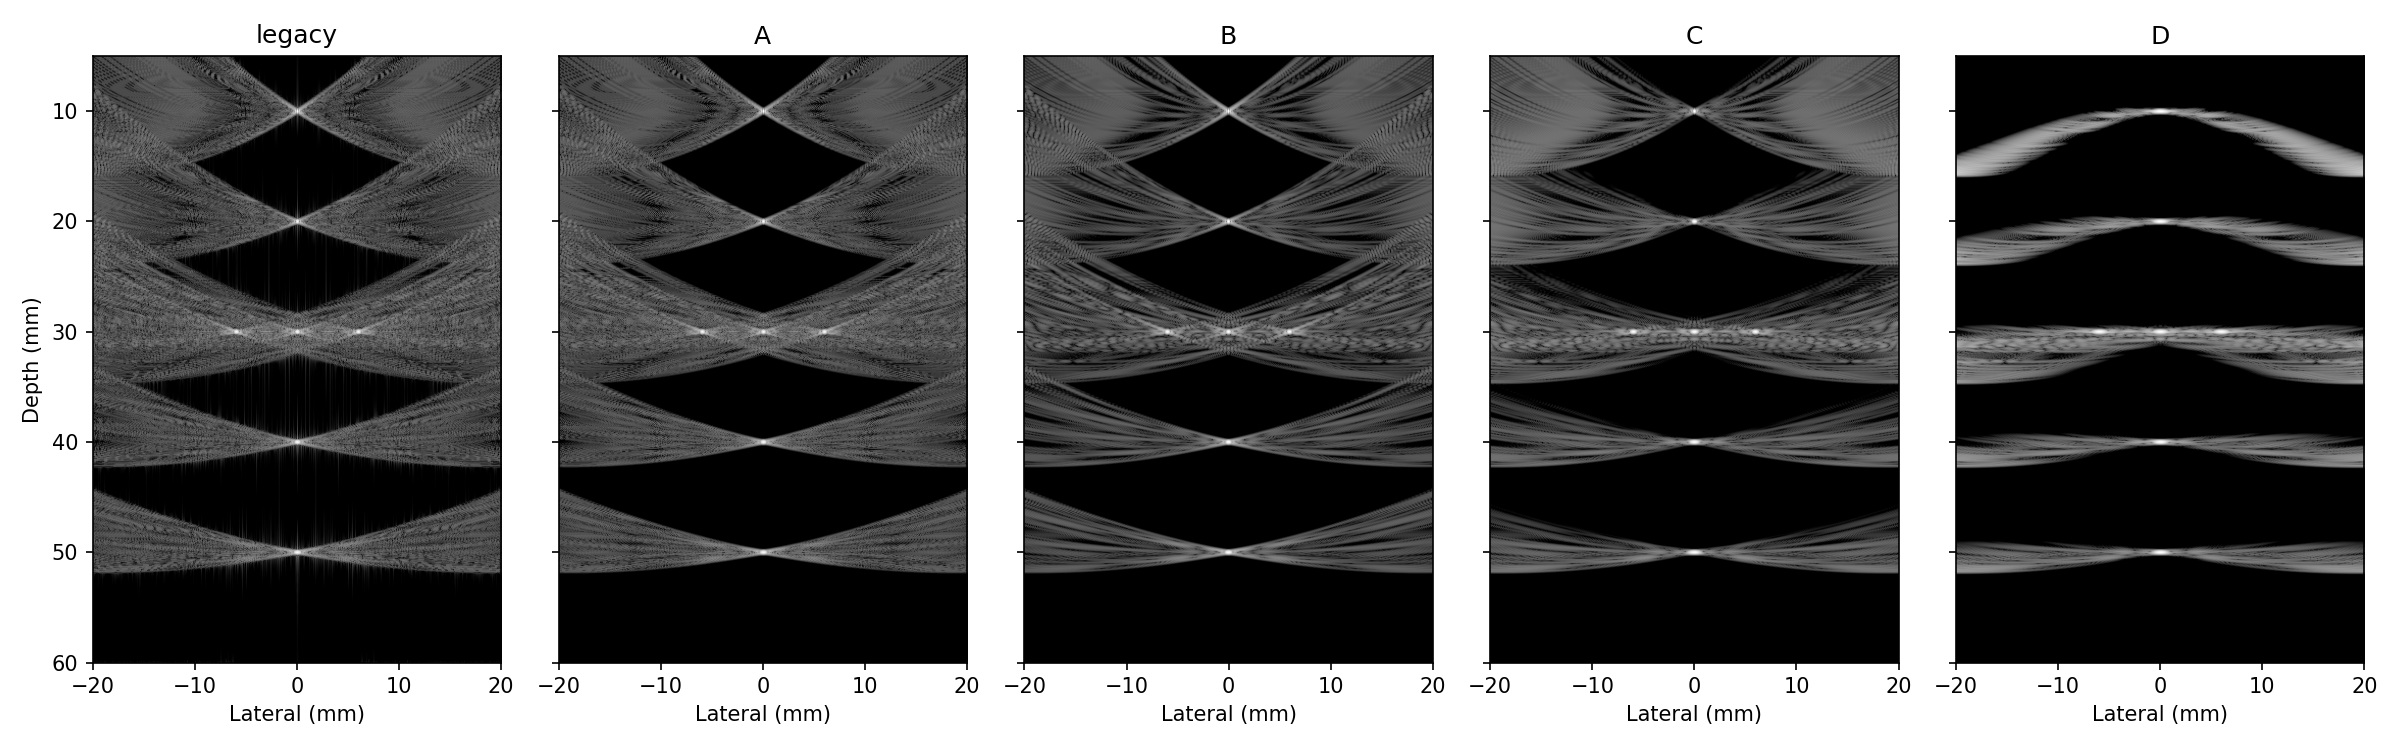
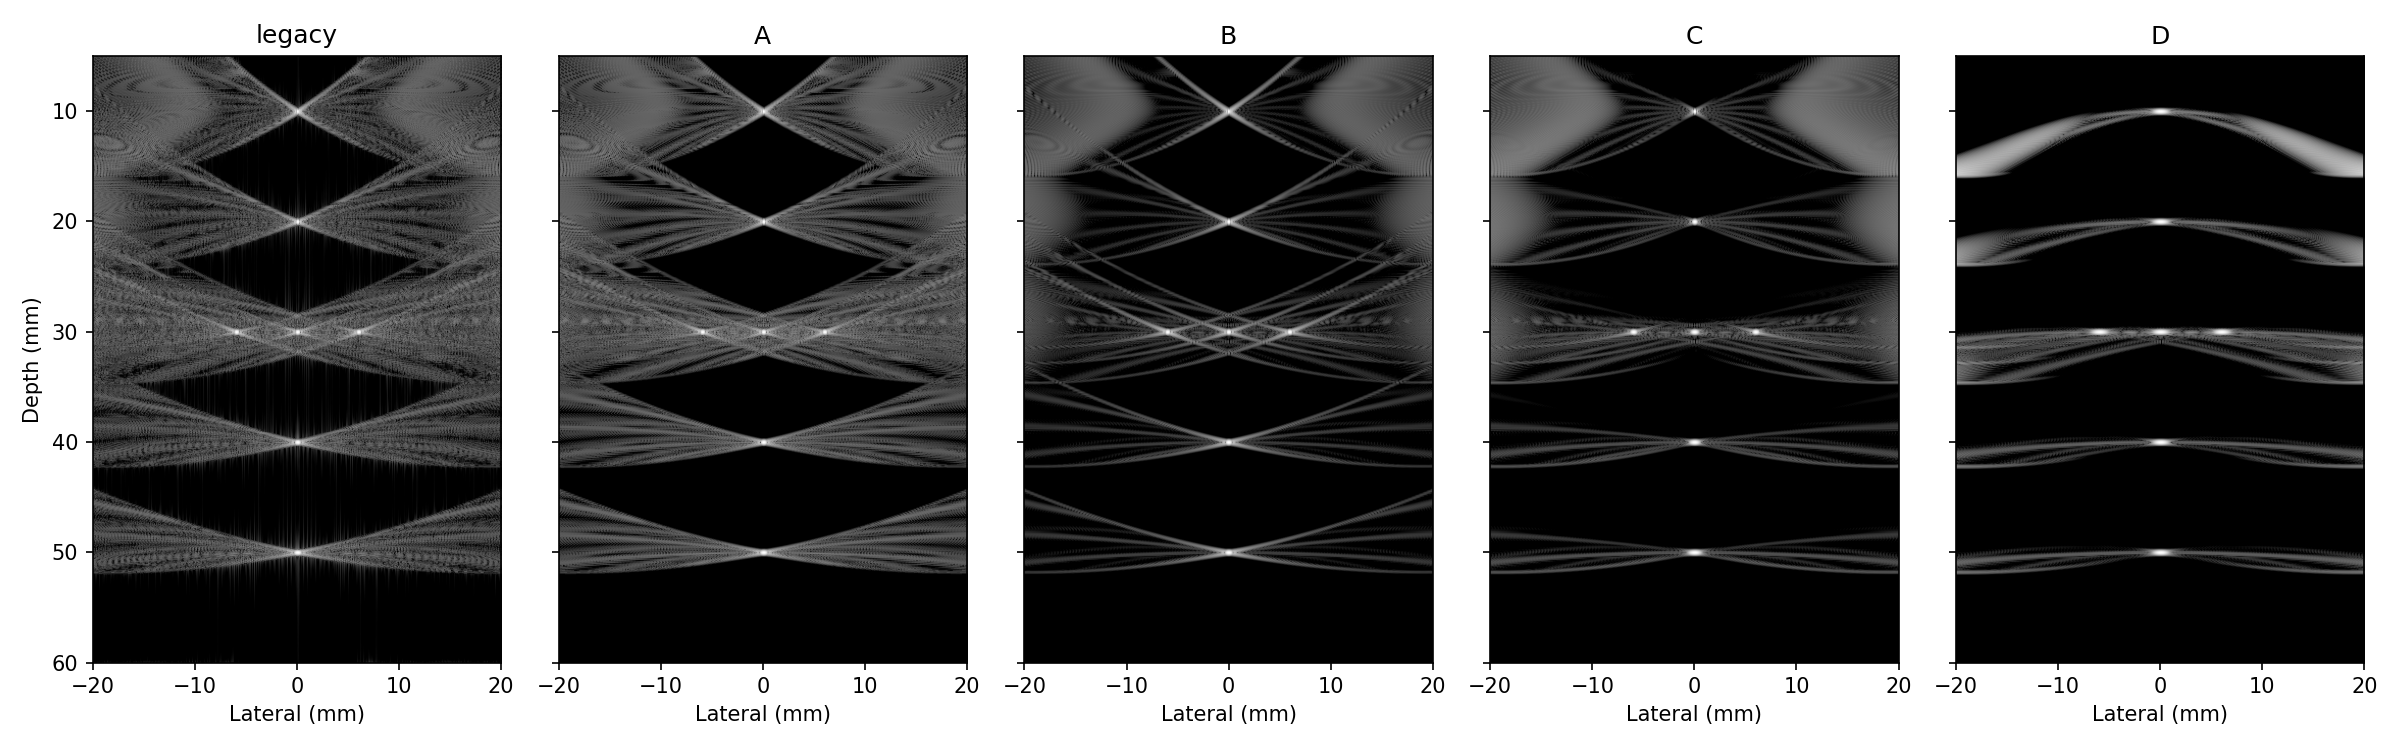
Add multi-seed ablation and robustness results

diff --git a/run_demo.py b/run_demo.py
@@ -14,8 +14,6 @@ from src.simulate import C, FS, PITCH, phantom_cyst, phantom_points, simulate_ch
 
 X = np.arange(-20e-3, 20.0001e-3, 0.1e-3)
 Z = np.arange(5e-3, 60.0001e-3, 0.05e-3)
-X_FINE = np.arange(-2e-3, 2.0001e-3, 0.025e-3)
-Z_FINE = np.arange(28e-3, 32.0001e-3, 0.025e-3)
 CONFIGS = {
     "legacy": None,
     "A": {"interp": "nearest", "apod": "none", "fnum": None, "upsample": 1},
@@ -33,6 +31,7 @@ def _plot_bmode(image, path, title):
     fig, ax = plt.subplots(figsize=(6, 7))
     shown = ax.imshow(to_db(image), cmap="gray", extent=[X[0] * 1e3, X[-1] * 1e3, Z[-1] * 1e3, Z[0] * 1e3], aspect="auto", vmin=-60, vmax=0)
     ax.set(xlabel="Lateral position (mm)", ylabel="Depth (mm)", title=title)
+    ax.set_xlim(-15, 15); ax.set_ylim(45, 15)
     fig.colorbar(shown, ax=ax, label="Amplitude (dB)")
     fig.tight_layout()
     fig.savefig(path, dpi=150)
@@ -40,8 +39,8 @@ def _plot_bmode(image, path, title):
 
 
 def _write_readme_table(rows):
-    table = ["| Config | Lateral FWHM (mm) | PSL (dB) | CR (dB) | CNR |", "|---|---:|---:|---:|---:|"]
-    table += [f"| {r['config']} | {r['lateral_fwhm_mm']:.4f} | {r['psl_db']:.2f} | {r['cr_db']:.2f} | {r['cnr']:.3f} |" for r in rows]
+    table = ["| Config | FWHM (mm, -6 dB) | ISLR (dB) | PSL (dB) | CR (dB, mean +/- std) | CNR (mean +/- std) |", "|---|---:|---:|---:|---:|---:|"]
+    table += [f"| {r['config']} | {r['lateral_fwhm_mm']:.4f} | {r['islr_db']:.2f} | {r['psl_db']:.2f} | {r['cr_mean_db']:.2f} +/- {r['cr_std_db']:.2f} | {r['cnr_mean']:.3f} +/- {r['cnr_std']:.3f} |" for r in rows]
     readme = Path("README.md")
     text = readme.read_text(encoding="utf-8")
     before, _, after = text.partition("<!-- RESULTS:START -->")
@@ -53,23 +52,34 @@ def main():
     Path("results").mkdir(exist_ok=True)
     Path("figures").mkdir(exist_ok=True)
     point_locations, point_amplitudes = phantom_points()
-    cyst_locations, cyst_amplitudes = phantom_cyst()
     point_rf = simulate_channels(point_locations, point_amplitudes)
-    cyst_rf = simulate_channels(cyst_locations, cyst_amplitudes)
     fig, ax = plt.subplots(figsize=(7, 6))
     shown = ax.imshow(point_rf, extent=[0, point_rf.shape[1] - 1, point_rf.shape[0] / FS * 1e6, 0], aspect="auto", cmap="seismic")
     ax.set(xlabel="Element index", ylabel="Time (microseconds)", title="Point phantom channel data")
     fig.colorbar(shown, ax=ax, label="Amplitude")
     fig.tight_layout(); fig.savefig("figures/channel_data.png", dpi=150); plt.close(fig)
     point_images = {name: _beamform(point_rf, config) for name, config in CONFIGS.items()}
-    cyst_images = {name: _beamform(cyst_rf, config) for name, config in CONFIGS.items()}
-    fine_point_images = {name: _beamform(point_rf, config, X_FINE, Z_FINE) for name, config in CONFIGS.items()}
+    target_x, target_z = point_locations[2]
+    x_fine = np.arange(target_x - 2e-3, target_x + 2.0001e-3, 0.025e-3)
+    z_fine = np.arange(target_z - 2e-3, target_z + 2.0001e-3, 0.025e-3)
+    fine_point_images = {name: _beamform(point_rf, config, x_fine, z_fine) for name, config in CONFIGS.items()}
     rows, measured = [], {}
+    cyst_values = {name: [] for name in CONFIGS}
+    cyst_images = {}
+    for seed in range(5):
+        cyst_locations, cyst_amplitudes = phantom_cyst(seed=seed)
+        cyst_rf = simulate_channels(cyst_locations, cyst_amplitudes)
+        for name, config in CONFIGS.items():
+            image = _beamform(cyst_rf, config)
+            cyst_values[name].append(cyst_metrics(image, X, Z))
+            if seed == 0:
+                cyst_images[name] = image
     for name in CONFIGS:
-        resolution = point_resolution(fine_point_images[name], X_FINE, Z_FINE, 0.0, 30e-3)
-        cyst = cyst_metrics(cyst_images[name], X, Z)
+        resolution = point_resolution(fine_point_images[name], x_fine, z_fine, target_x, target_z)
         errors = [point_position_error(point_images[name], X, Z, px, pz) for px, pz in point_locations]
-        row = {"config": name, **resolution, **cyst}
+        cr = np.array([value["cr_db"] for value in cyst_values[name]])
+        cnr = np.array([value["cnr"] for value in cyst_values[name]])
+        row = {"config": name, **resolution, "cr_mean_db": float(cr.mean()), "cr_std_db": float(cr.std(ddof=1)), "cnr_mean": float(cnr.mean()), "cnr_std": float(cnr.std(ddof=1))}
         rows.append(row)
         measured[name] = {**row, "point_errors_mm": errors}
     with open("results/ablation.csv", "w", newline="", encoding="utf-8") as handle:
@@ -84,13 +94,20 @@ def main():
         ax.set(title=name, xlabel="Lateral (mm)")
     axes[0].set_ylabel("Depth (mm)")
     fig.tight_layout(); fig.savefig("figures/ablation_panel.png", dpi=150); plt.close(fig)
-    zi = np.argmin(abs(Z - 30e-3))
+    zi = np.argmin(abs(Z - target_z))
     fig, ax = plt.subplots(figsize=(7, 4))
     for name in ("legacy", "D"):
         profile = point_images[name][zi] / point_images[name][zi].max()
         ax.plot(X * 1e3, 20 * np.log10(np.maximum(profile, 1e-12)), label=name)
-    ax.set(xlabel="Lateral position (mm)", ylabel="Relative amplitude (dB)", ylim=(-60, 2), title="Lateral profile at 30 mm")
+    ax.set(xlabel="Lateral position (mm)", ylabel="Relative amplitude (dB)", ylim=(-60, 2), title="Lateral profile at target depth")
     ax.legend(); fig.tight_layout(); fig.savefig("figures/lateral_profile.png", dpi=150); plt.close(fig)
+    speed = {}
+    for assumed_c in (1500.0, 1540.0, 1580.0):
+        image = beamform_das(point_rf, assumed_c, FS, PITCH, x_fine, z_fine, interp="linear", apod="none", fnum=None)
+        error = point_position_error(image, x_fine, z_fine, target_x, target_z)
+        resolution = point_resolution(image, x_fine, z_fine, target_x, target_z)
+        speed[str(int(assumed_c))] = {"axial_shift_mm": error["estimated_z_mm"] - target_z * 1e3, "lateral_fwhm_mm": resolution["lateral_fwhm_mm"]}
+    Path("results/sound_speed.json").write_text(json.dumps(speed, indent=2) + "\n", encoding="utf-8")
     _write_readme_table(rows)
 
 
